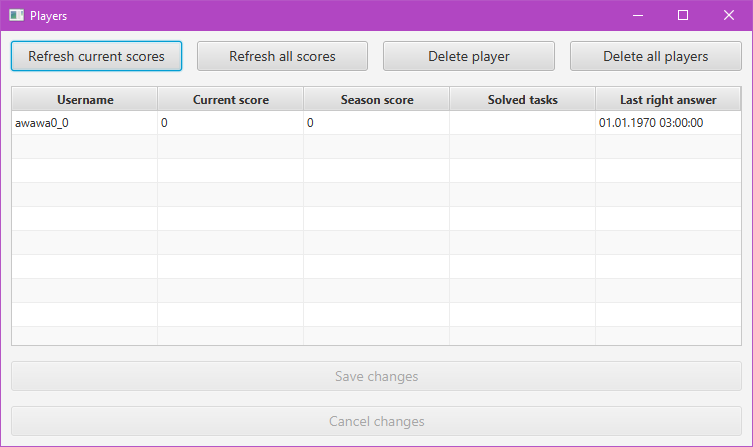
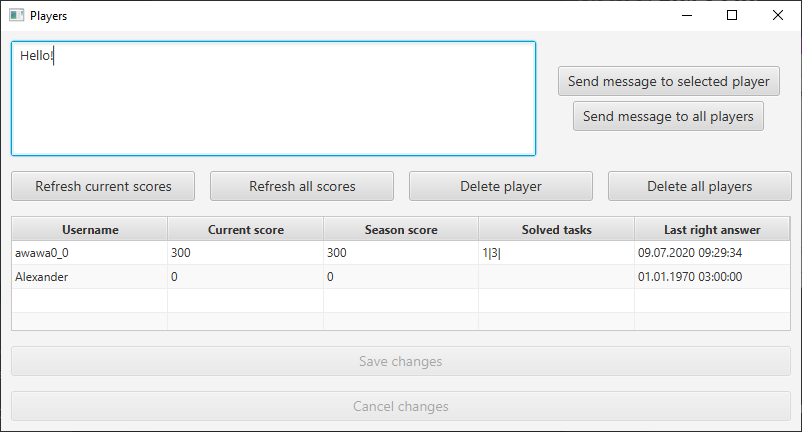
README update

diff --git a/README.md b/README.md
@@ -28,6 +28,10 @@ Top text field is for CTF event name. The CTF name will be used by bot to look f
 ### Players window
 ![PlayersWindow](screenshots/PlayersWindow.png)
 
+"Send message to selected player" button sends message to player selected in the players table.
+
+"Send message to all" button sends message to all players in the database. Note that currently Telegram Bots API doesn't support broadcast messaging, so trying to send message to many chats immediately will cause an error 429. Therefore messages will be sent with 200 milliseconds interval, so broadcasting message to really big amount of players can take some time. For example, if you have 100 players in the database, it will take up to 20 seconds to send message to everybody.  
+
 "Refresh current scores" button sets "Current score" field for all users to 0. Other fields will remain untouched.
 
 "Refresh all scores" button sets all fields for all users to default values (except of "Username" obviously).
